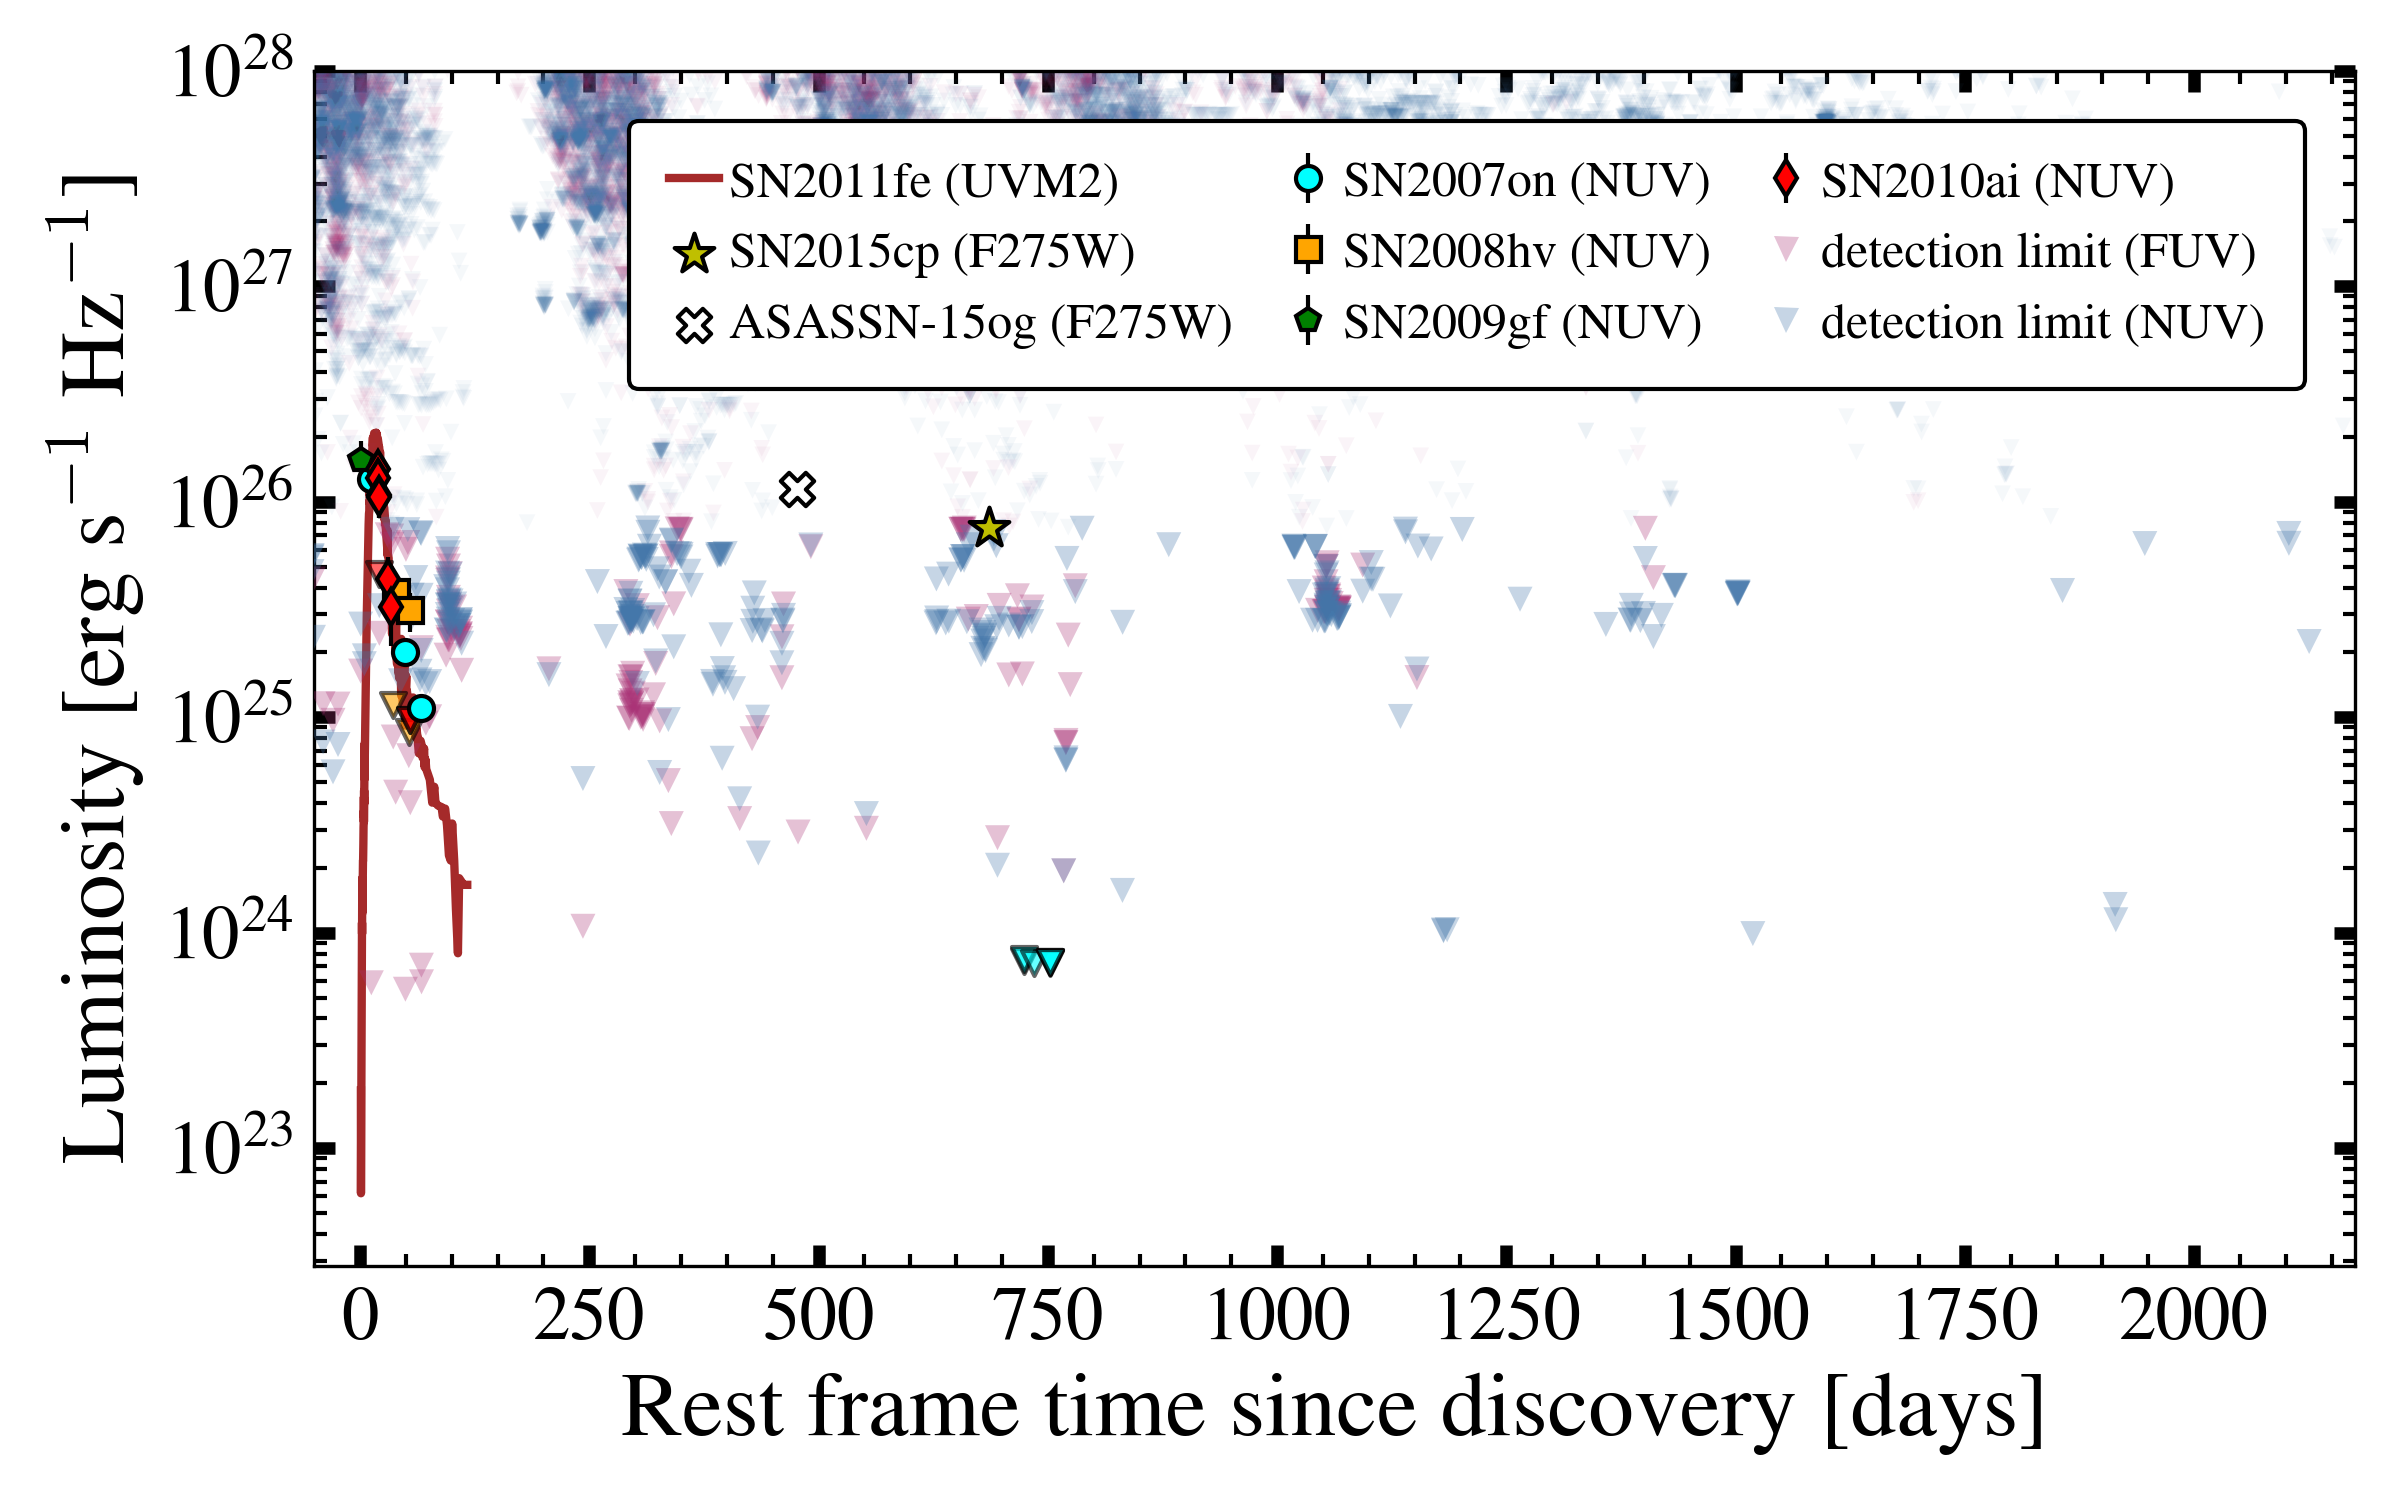
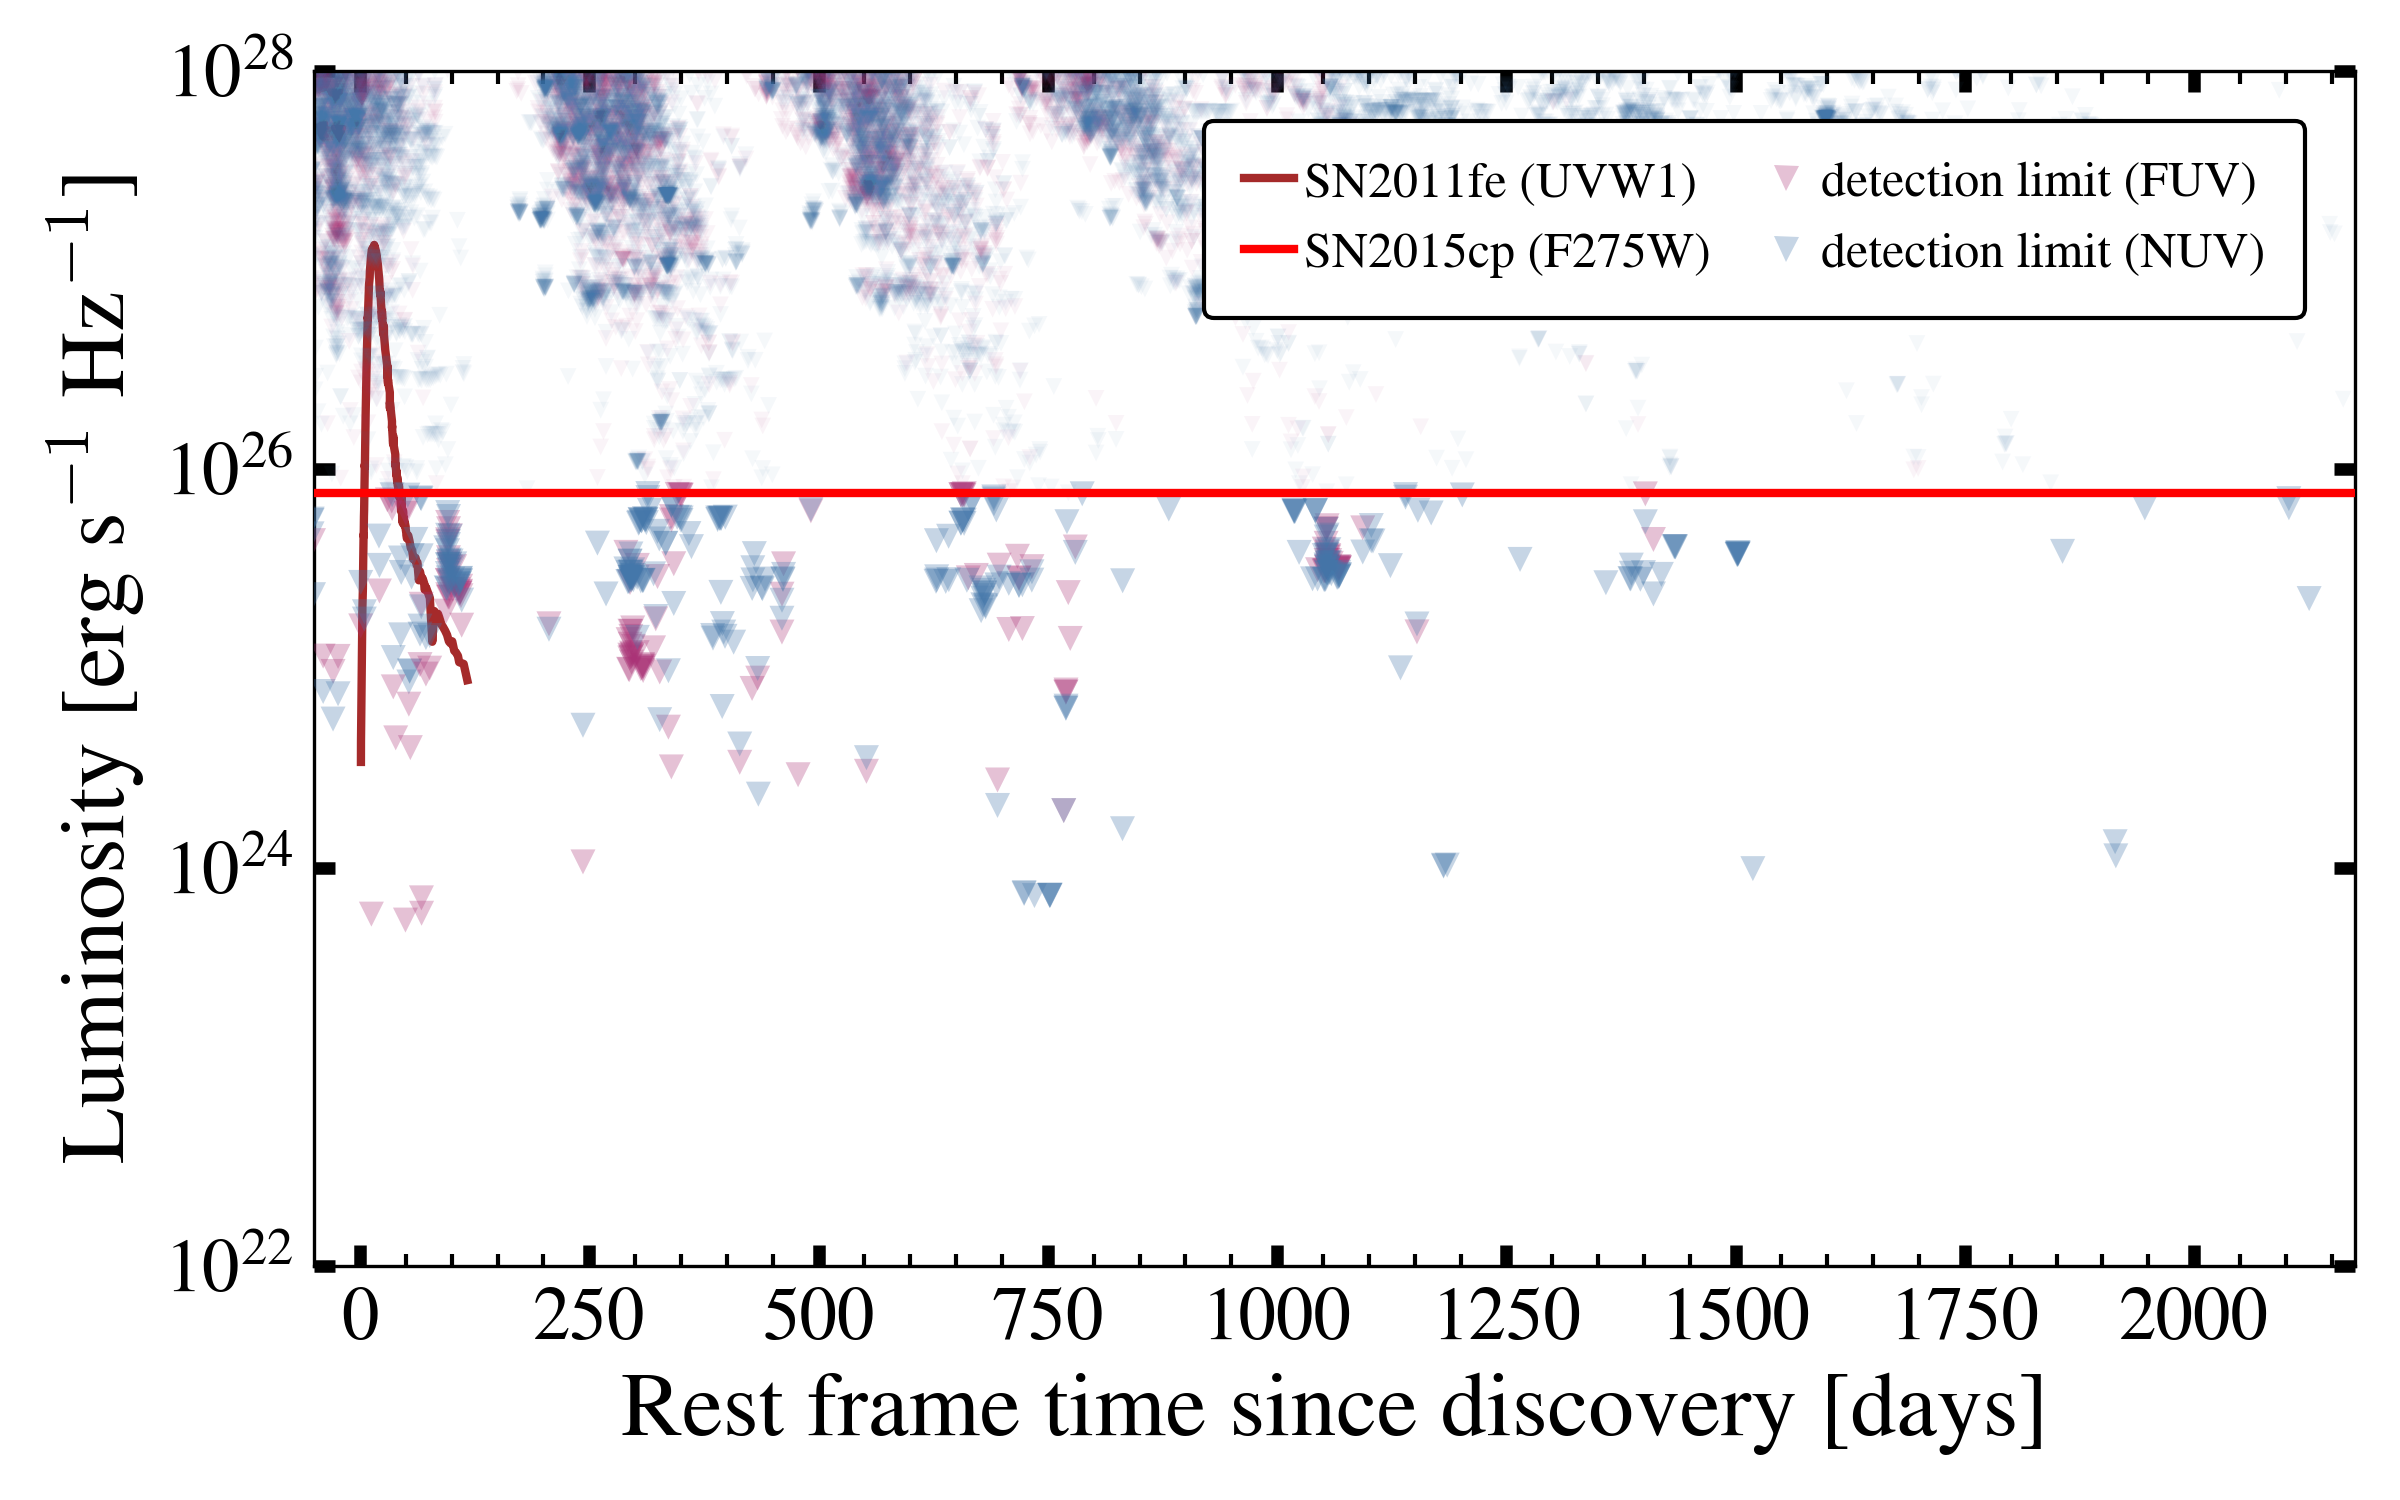
updated limits plot for presentation

diff --git a/plot_limits.py b/plot_limits.py
@@ -21,6 +21,8 @@ def main():
     parser.add_argument('-s', '--systematics', action='store_true',
             help='plot observation and sample systematics.')
     parser.add_argument('--show', action='store_true', help='show plot after saving')
+    parser.add_argument('--presentation', action='store_true',
+            help='configure plots for presentation')
     args = parser.parse_args()
 
     sn_info = pd.read_csv(Path('ref/sn_info.csv'), index_col='name')
@@ -62,28 +64,51 @@ def main():
     nondet_alpha = 0.05
     faint_alpha = 0.3
     upper_lim = 1e28
+    lower_lim = 1e22 if args.presentation else None
     cutoff = 10**25.88 # Graham 2015cp detection
     det_ms = 6 # detection marker size
 
     markers = ['o', 's', 'p', 'd', 'P']
-    colors = ['cyan', 'orange', 'green', 'red']
+    colors = ['cyan', 'orange', 'green', 'magenta']
 
     # Plot Swift SN2011fe from Brown+ 2012
+    if args.presentation:
+        band = 'UVW1'
+    else:
+        band = 'UVM2'
     SN2011fe = pd.read_csv(Path('external/SN2011fe_Brown2012.tsv'), sep='\t',
             comment='#', skiprows=[45, 46])
     SN2011fe = SN2011fe[pd.notna(SN2011fe['mag'])]
     SN2011fe['t_delta'] = SN2011fe['MJD'] - Time('2011-08-24', format='iso').mjd
-    lc = SN2011fe[SN2011fe['Filt'] == 'uvm2'].copy() # Just plot M2 for now
+    lc = SN2011fe[SN2011fe['Filt'] == band.lower()].copy()
     dist = 6.4 # Mpc; from Shappee & Stanek 2011
     z = 0 # too close to need correction
     a_v = 0 # won't worry about it right now
     a_band = 'NUV' # close enough
     lc['FluxDensity'], lc['e_FluxDensity'] = swift_cps2flux(lc['CRate'], 
-            lc['e_CRate'], 'UVM2')
+            lc['e_CRate'], band)
     lc['Luminosity'] = flux2luminosity(lc['FluxDensity'], dist, z, a_v, a_band)
     lc['Luminosity_hz'] = wavelength2freq(lc['Luminosity'], 2245.8)
     ax.plot(lc['t_delta'], lc['Luminosity_hz'], color='brown', 
-            label='SN2011fe (UVM2)', zorder=1)
+            label='SN2011fe (%s)' % band, zorder=1)
+
+    # Plot near-peak and CSM detections
+    for i, (sn, band) in enumerate(det_sne):
+        lc = detections[(detections['name'] == sn) & (detections['band'] == band)]
+        lc_det = lc[lc['sigma'] > DET_SIGMA]
+        lc_non = lc[lc['sigma'] <= DET_SIGMA]
+        if args.presentation:
+            # Plot nondetection limits of near-peak SNe
+            plot_luminosity_limit(ax, lc_non, s=36, c=COLORS[band], 
+                    a=faint_alpha, e='none', z=2)
+        else:
+            ax.errorbar(lc_det['t_delta_rest'], lc_det['luminosity_hostsub_hz'],
+                    yerr=lc_det['luminosity_hostsub_err_hz'], linestyle='none', 
+                    label='%s (%s)' % (sn, band), marker=markers[i], ms=det_ms,
+                    markeredgecolor='k', color=colors[i], ecolor='k', elinewidth=1, zorder=9)
+            # Plot nondetection limits of near-peak SNe
+            plot_luminosity_limit(ax, lc_non, s=det_ms**2, c=colors[i], 
+                    a=limit_alpha, e='k', z=8)
 
     # Plot nondetections
     for band in ['FUV', 'NUV']:
@@ -97,32 +122,22 @@ def main():
         plot_luminosity_limit(ax, faint, s=36, c=COLORS[band], a=faint_alpha, 
                 e='none', z=3)
 
-    # Plot ner-peak and CSM detections
-    for i, (sn, band) in enumerate(det_sne):
-        lc = detections[(detections['name'] == sn) & (detections['band'] == band)]
-        lc_det = lc[lc['sigma'] > DET_SIGMA]
-        ax.errorbar(lc_det['t_delta_rest'], lc_det['luminosity_hostsub_hz'],
-                yerr=lc_det['luminosity_hostsub_err_hz'], linestyle='none', 
-                label='%s (%s)' % (sn, band), marker=markers[i], ms=det_ms,
-                markeredgecolor='k', color=colors[i], ecolor='k', elinewidth=1, zorder=9)
-        lc_non = lc[lc['sigma'] <= DET_SIGMA]
-        # Plot nondetection limits of near-peak SNe
-        plot_luminosity_limit(ax, lc_non, s=det_ms**2, c=colors[i], 
-                a=limit_alpha, e='k', z=8)
-
     # Plot Graham detections
     # note: Graham uses days past explosion, not discovery
-    ax.scatter(686, 10**25.88, marker='*', s=100, color='y', edgecolors='k', 
-            label='SN2015cp (F275W)', zorder=10)
-    ax.scatter(477, 10**26.06, marker='X', s=64, color='w', edgecolors='k', 
-            label='ASASSN-15og (F275W)', zorder=10)
+    if args.presentation:
+        ax.axhline(y=cutoff, color='r', label='SN2015cp (F275W)', zorder=10)
+    else:
+        ax.scatter(686, 10**25.88, marker='*', s=100, color='r', edgecolors='k', 
+                label='SN2015cp (F275W)', zorder=10)
+        ax.scatter(477, 10**26.06, marker='X', s=64, color='y', edgecolors='k', 
+                label='ASASSN-15og (F275W)', zorder=10)
 
     ax.set_xlabel('Rest frame time since discovery [days]')
     # ax.set_xlabel('Observed time since discovery [days]')
     ax.set_xlim((-50, np.max(faint['t_delta_rest']) + 50))
     ax.set_ylabel('Luminosity [erg s$^{-1}$ Hz$^{-1}$]')
     ax.set_yscale('log')
-    ax.set_ylim((None, upper_lim))
+    ax.set_ylim((lower_lim, upper_lim))
 
     # Legend
     handles, labels = ax.get_legend_handles_labels()
@@ -134,7 +149,8 @@ def main():
                     markeredgecolor='none', markersize=6, alpha=faint_alpha,
                     label='detection limit (NUV)', lw=0)
     ]
-    plt.legend(handles=handles + legend_elements, loc='upper right', ncol=3,
+    ncol = 2 if args.presentation else 3
+    plt.legend(handles=handles + legend_elements, loc='upper right', ncol=ncol,
             handletextpad=0.2, handlelength=1.0)
 
     plt.savefig(Path('figs/limits.png'), dpi=300)
@@ -193,9 +209,9 @@ def main():
     ax.set_ylabel('Rate of CSM interaction [%]')
 
     # Preliminary!
-    fig.text(0.95, 0.05, 'PRELIMINARY',
-         fontsize=72, color='gray', rotation='30',
-         ha='right', va='bottom', alpha=0.5)
+    if args.presentation:
+        fig.text(0.95, 0.05, 'PRELIMINARY', fontsize=72, color='gray', 
+                rotation='30', ha='right', va='bottom', alpha=0.5)
 
     plt.tight_layout()
     plt.legend()
